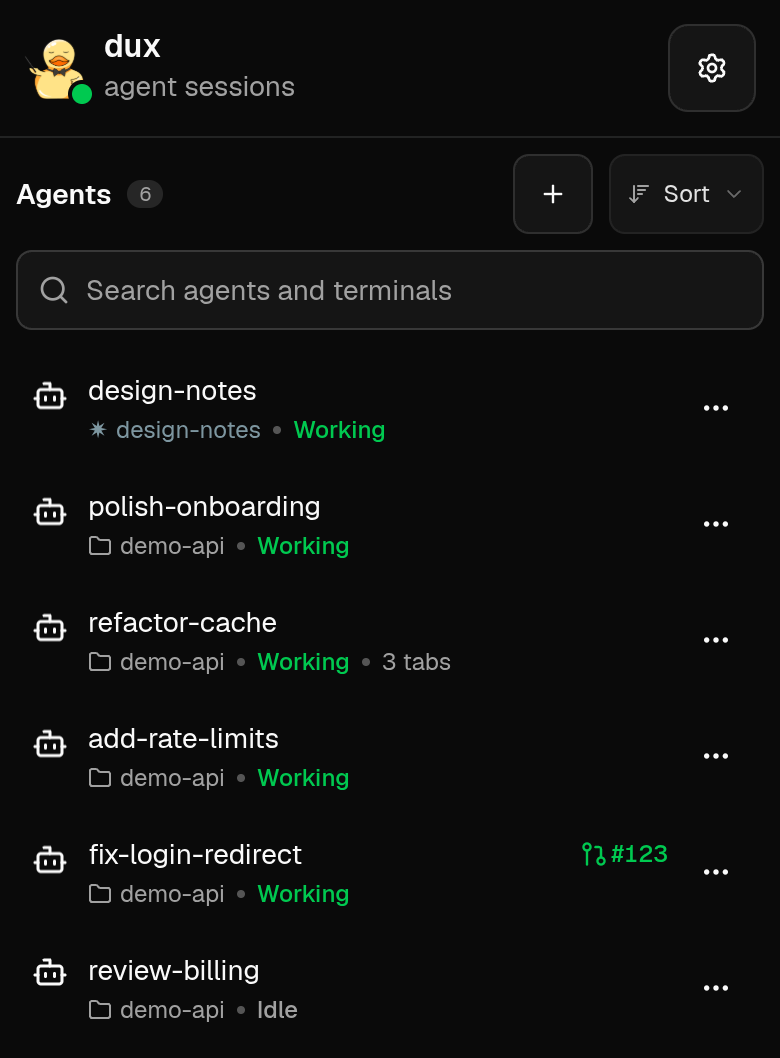
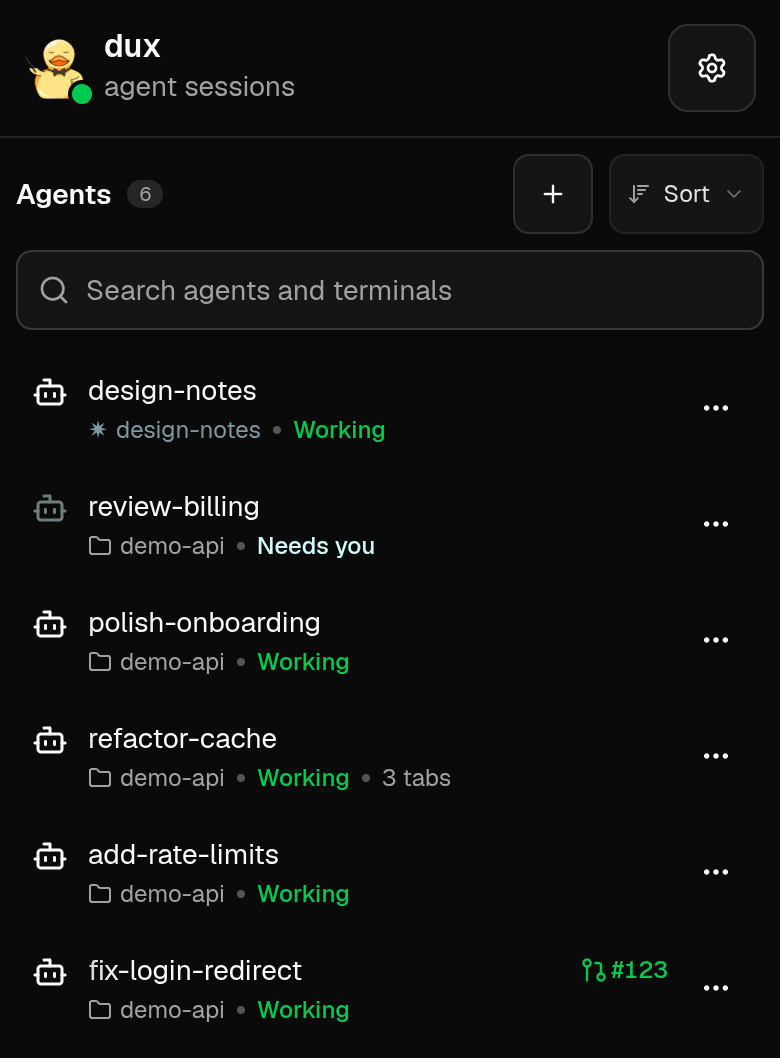
Stop one screenshot depending on which screenshots ran before it
The committed phone-hub.png contradicted its own caption: it says one agent is
waiting on you and the rest are working, and review-billing was last and Idle.
The cause is order. The browser scenes shoot alphabetically, macro-popover opens
review-billing and takes over its pane, looking at a pane is what clears its
needs-you flag, and nothing put the flag back before phone-hub was shot.
attention-sidebar came out right only because it sorts earlier than the scene
that broke it.

Both halves are fixed rather than the ordering, because an ordering that has to
be right is a trap for the next scene. Every scene that is ABOUT the flag re-arms
it itself before shooting, on the same path stage() relights an agent on, and
waits for the flag to actually be up rather than for the restart. macro-popover
puts it back in an after hook. Those hooks now run once the scene's own browser
has closed, since a page still watching that pane would clear the flag again.

And the picture refuses to be written when it would be wrong: both scenes assert
the review-billing row reads "Needs you" first, the way the take-over card
already refuses a card that names no driving device. Re-shot in the order that
used to break it, with macro-popover immediately before phone-hub.

diff --git a/tools/preview-env/screens/lib.js b/tools/preview-env/screens/lib.js
@@ -7,7 +7,11 @@
 // captured black.
 const { spawnSync } = require("child_process")
 const path = require("path")
-const puppeteer = require("puppeteer-core")
+
+// Required inside `open` rather than here: loading a scene must cost nothing but
+// node, so the website suite's loop test can read every scene without this
+// directory's dependencies being installed.
+const puppeteer = () => require("puppeteer-core")
 
 const PORT = process.env.DUX_PORT || "8790"
 const BASE = `http://127.0.0.1:${PORT}`
@@ -116,7 +120,7 @@ async function open({ mobile = false, width, height } = {}) {
   const preset = mobile ? PHONE : DESKTOP
   const w = width || preset.width
   const h = height || preset.height
-  const browser = await puppeteer.launch({
+  const browser = await puppeteer().launch({
     executablePath: process.env.CHROME,
     headless: "new",
     defaultViewport: null,
@@ -292,6 +296,59 @@ const STAGINGS = {
   standalone: { ...BUSY, "design-notes": { fixture: "working", provider: "claude" } },
 }
 
+// The agent the busy stagings leave waiting on you, and the fixture that rings
+// the bell it waits with.
+const ATTENTION_AGENT = "review-billing"
+
+// Re-arm that agent's needs-you flag, on the same path `stage` relights an agent
+// on: the flag clears the moment someone looks at the pane, so any scene that
+// opens this agent leaves the workspace without one. A scene that is ABOUT the
+// flag calls this before it shoots rather than trusting whatever ran before it,
+// and a scene that clears it puts it back afterwards.
+async function armAttention(title = ATTENTION_AGENT, timeoutMs = 40000) {
+  const by = await agents()
+  const session = by[title]
+  if (!session) throw new Error(`the seed has not created ${title}`)
+  await setFixture("attention")
+  await api("POST", `/api/v1/sessions/${session.id}/kill`)
+  await sleep(1200)
+  await api("POST", `/api/v1/sessions/${session.id}/reconnect`)
+
+  // Wait for the flag itself, not for the restart: the fixture rings the bell
+  // once, shortly after it comes up, and resetting the global environment before
+  // the provider has been spawned would hand the next spawn the wrong fixture.
+  const deadline = Date.now() + timeoutMs
+  while (Date.now() < deadline) {
+    const now = (await get("/api/v1/sessions")).find((s) => s.id === session.id)
+    if (now && now.needs_attention) {
+      await setFixture("working")
+      return
+    }
+    await sleep(500)
+  }
+  await setFixture("working")
+  throw new Error(`${title} never raised its needs-you flag`)
+}
+
+// Refuse to write a picture of the wrong thing: the sidebar row has to say the
+// words the caption promises. Same idea as the take-over card's guard.
+async function assertNeedsAttention(page, title = ATTENTION_AGENT) {
+  const reads = await page.evaluate((name) => {
+    // Bounded by length so this matches the row rather than an ancestor that
+    // happens to contain every row.
+    const row = [...document.querySelectorAll("a, li, div")].find((el) => {
+      const text = el.textContent || ""
+      return text.length < 200 && text.includes(name) && /Needs you/.test(text)
+    })
+    return Boolean(row)
+  }, title)
+  if (!reads) {
+    throw new Error(
+      `the ${title} row does not read "Needs you"; something cleared the flag before this scene`,
+    )
+  }
+}
+
 // Relight every agent on the fixture its staging asks for. The fixture is read
 // at spawn, so each agent is stopped and started again with the global
 // environment holding the value meant for it.
@@ -369,8 +426,11 @@ async function openMoreWays(page) {
 }
 
 module.exports = {
+  ATTENTION_AGENT,
   BASE,
   SIDEBAR_ORDER,
+  armAttention,
+  assertNeedsAttention,
   openMoreWays,
   openNewAgent,
   containerSh,

diff --git a/tools/preview-env/screens/scenes/attention-sidebar.js b/tools/preview-env/screens/scenes/attention-sidebar.js
@@ -1,15 +1,27 @@
 // The sidebar with one agent waiting on you among five that are working.
-const { boxOf, clearToasts, goto, sleep } = require("../lib.js")
+const {
+  armAttention,
+  assertNeedsAttention,
+  boxOf,
+  clearToasts,
+  goto,
+  sleep,
+} = require("../lib.js")
 
 module.exports = {
   file: "attention-sidebar.png",
   viewport: "desktop",
   async shoot(page) {
+    // Re-armed here rather than trusted from the seed: the flag clears the
+    // moment anything looks at that agent's pane, and this scene must not depend
+    // on which scenes ran before it.
+    await armAttention()
     // This shot is about state, so none of the agents may be selected: opening
     // one both paints a selection and clears the very indicator being shown.
     await goto(page, "")
     await sleep(1500)
     await clearToasts(page)
+    await assertNeedsAttention(page)
     const side = await boxOf(page, ["[data-slot=sidebar], aside, nav"])
     const rows = await boxOf(page, ['[aria-label="Session actions"]'])
     return {

diff --git a/tools/preview-env/screens/scenes/phone-hub.js b/tools/preview-env/screens/scenes/phone-hub.js
@@ -1,15 +1,22 @@
 // The phone hub: the agents list, which is the screen a phone opens on.
-const { clearToasts, goto, sleep } = require("../lib.js")
+const { armAttention, assertNeedsAttention, clearToasts, goto, sleep } = require("../lib.js")
 
 module.exports = {
   file: "phone-hub.png",
   viewport: "phone",
   async shoot(page) {
+    // Re-armed here rather than trusted from the seed: the flag clears the
+    // moment anything looks at that agent's pane, and this scene must not depend
+    // on which scenes ran before it.
+    await armAttention()
     // Like the desktop sidebar shot, this one is about state, so no agent is
     // opened: doing so would clear the very indicator being shown.
     await goto(page, "")
     await sleep(1500)
     await clearToasts(page)
+    await assertNeedsAttention(page)
+    // Cut at the last agent row rather than at the viewport: below it is the
+    // hub's bottom bar, which the hub's own caption is not about.
     return { x: 0, y: 0, width: 390, height: 529 }
   },
 }

diff --git a/tools/preview-env/screens/scenes/macro-popover.js b/tools/preview-env/screens/scenes/macro-popover.js
@@ -1,11 +1,23 @@
 // The macro popover open over an agent pane, listing what that pane can send.
-const { agents, boxOf, clearToasts, clickLabel, goto, takeOver } = require("../lib.js")
+const {
+  agents,
+  armAttention,
+  boxOf,
+  clearToasts,
+  clickLabel,
+  goto,
+  takeOver,
+} = require("../lib.js")
 
 module.exports = {
   file: "macro-popover.png",
   viewport: "desktop",
-  async shoot(page) {
+  async shoot(page, ctx) {
     const by = await agents()
+    // Opening this pane clears the agent's needs-you flag, which two other
+    // scenes are about. Put it back once the capture is done, so no scene's
+    // picture depends on whether this one ran before it.
+    ctx.after(() => armAttention())
     await goto(page, `#/agent/${by["review-billing"].id}`)
     await takeOver(page)
     await clearToasts(page)
